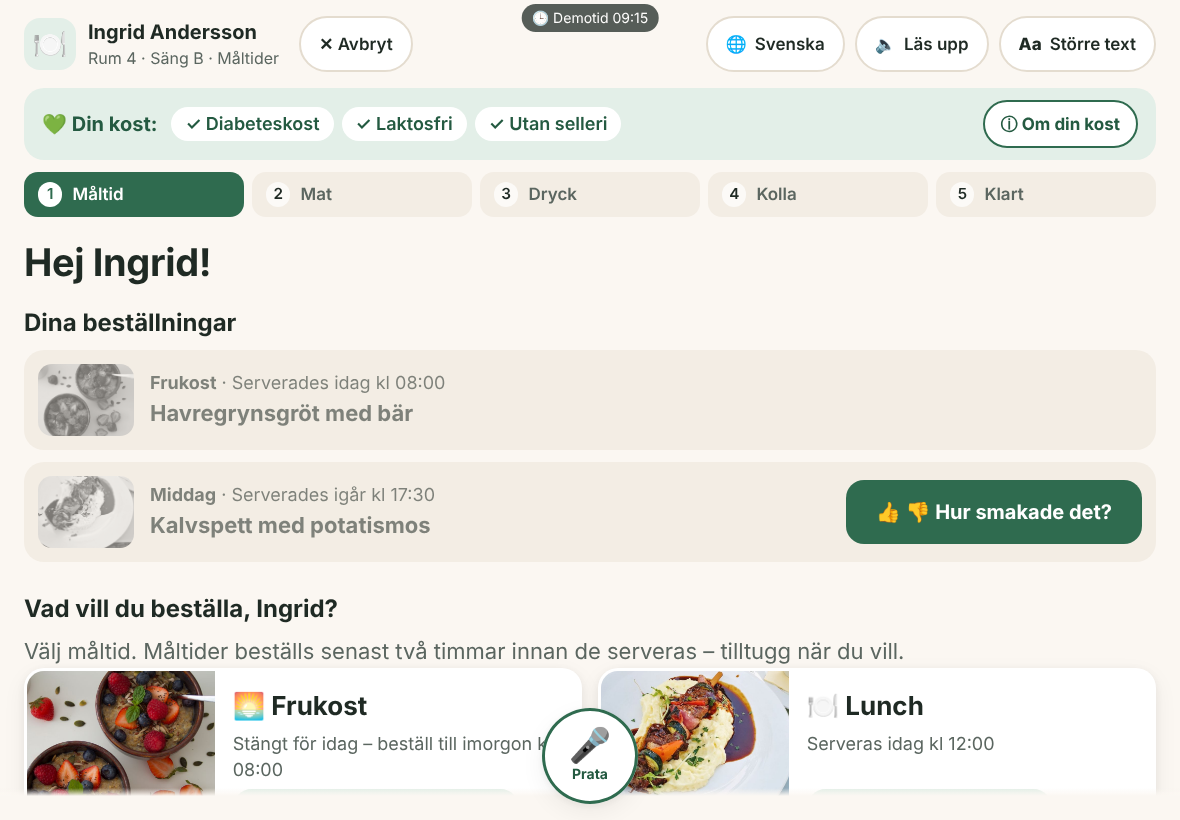
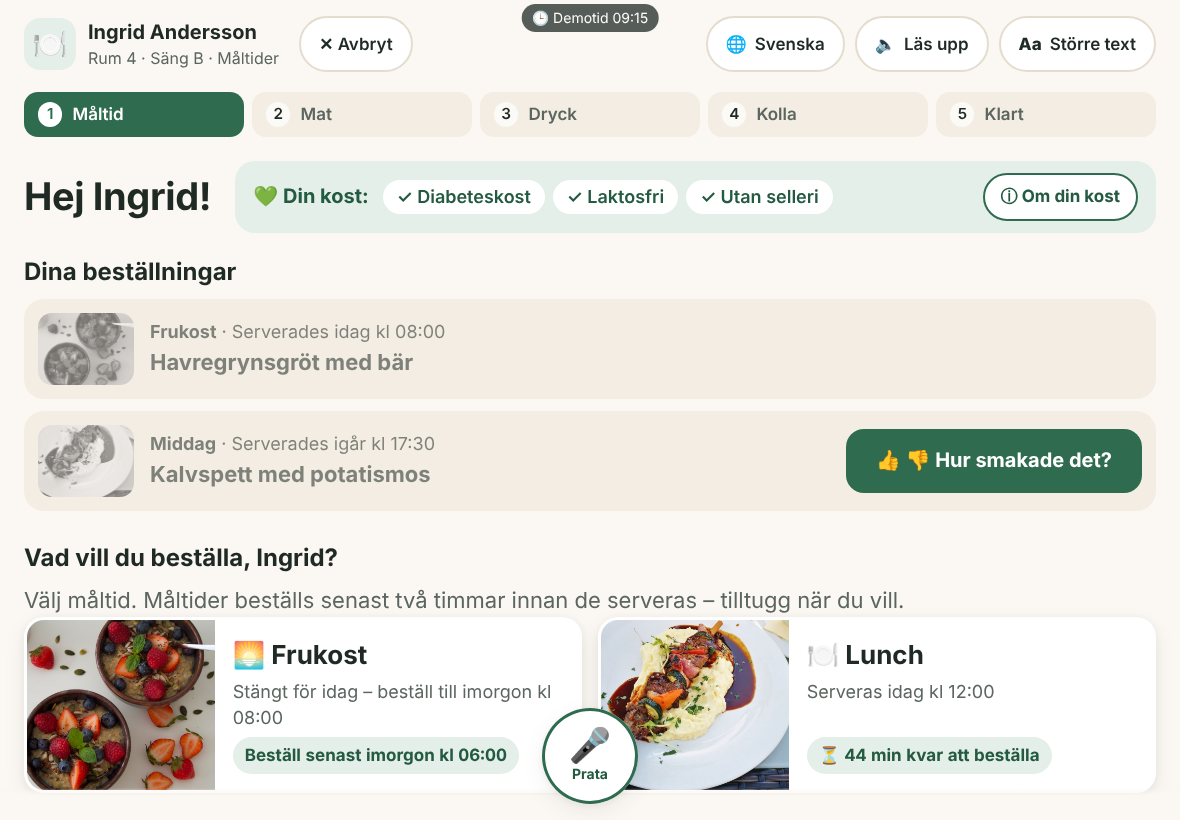
Kosten på samma rad som "Hej Ingrid!"
På första sidan står "Din kost" bredvid rubriken i stället för under sidhuvudet.
På smala skärmar bryts den ner under rubriken. Övriga sidor har kosten kvar under sidhuvudet.

Claude-Session: https://claude.ai/code/session_01W2bM9vS6XV6jr7pPMAABKn

diff --git a/src/components/Screen.tsx b/src/components/Screen.tsx
@@ -27,6 +27,8 @@ type ScreenProps = {
   commands?: VoiceCommand[];
   /** Exempel på vad man kan säga, t.ex. "lax" eller "soppa". */
   voiceHint?: string;
+  /** Sidans rubrik. Anges den står kosten på samma rad som rubriken i stället för under sidhuvudet. */
+  heading?: ReactNode;
   children: ReactNode;
   footer?: ReactNode;
 };
@@ -50,7 +52,7 @@ export function useAnnounce() {
   );
 }
 
-export function Screen({ speakText, step, commands, voiceHint, children, footer }: ScreenProps) {
+export function Screen({ speakText, step, commands, voiceHint, heading, children, footer }: ScreenProps) {
   const { patient, textSize, toggleTextSize, soundOn, setSoundOn, lang, order, logout } = useOrder();
   const router = useRouter();
   const pathname = usePathname();
@@ -201,7 +203,7 @@ export function Screen({ speakText, step, commands, voiceHint, children, footer 
         </div>
       </header>
 
-      {patient && <DietBar patient={patient} onAbout={() => setDietOpen(true)} />}
+      {patient && !heading && <DietBar patient={patient} onAbout={() => setDietOpen(true)} />}
 
       {step !== undefined && (
         <ol className="progress" aria-label={t.stepsLabel}>
@@ -218,7 +220,15 @@ export function Screen({ speakText, step, commands, voiceHint, children, footer 
         </ol>
       )}
 
-      <main className="content">{children}</main>
+      <main className="content">
+        {heading && (
+          <div className="heading-row">
+            {heading}
+            {patient && <DietBar patient={patient} onAbout={() => setDietOpen(true)} />}
+          </div>
+        )}
+        {children}
+      </main>
 
       {(footer || showMic) && (
         <footer className="footer">

diff --git a/src/app/tillfalle/page.tsx b/src/app/tillfalle/page.tsx
@@ -75,10 +75,8 @@ export default function OccasionPage() {
       speakText={`${m.hello(patient.firstName)} ${ordersText} ${o.speak(patient.firstName, items)}`}
       commands={commands}
       voiceHint="”lunch” eller ”fika”"
+      heading={<h1>{m.hello(patient.firstName)}</h1>}
     >
-      <div className="page-head">
-        <h1>{m.hello(patient.firstName)}</h1>
-      </div>
 
       <section className="section my-orders" aria-labelledby="my-orders-title">
         <h2 id="my-orders-title">{m.title}</h2>

diff --git a/src/app/globals.css b/src/app/globals.css
@@ -187,6 +187,20 @@ button:focus-visible {
   font-weight: 700;
 }
 
+/* Rubrik och kost på samma rad. Kosten bryts ner under rubriken när raden inte räcker. */
+.heading-row {
+  display: flex;
+  align-items: center;
+  flex-wrap: wrap;
+  gap: 12px 24px;
+  margin-bottom: 24px;
+}
+
+.heading-row .diet-bar {
+  flex: 1 1 420px;
+  margin: 0;
+}
+
 /* ---------- Dina beställningar ---------- */
 
 .order-list {
